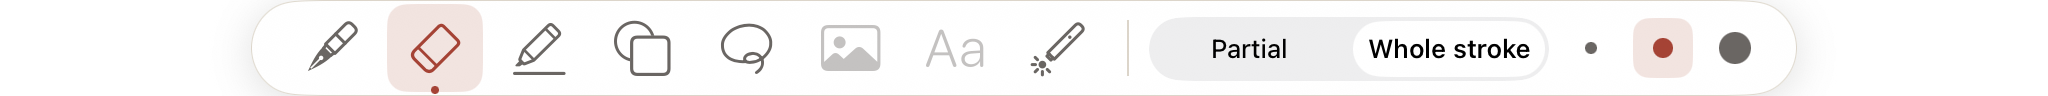
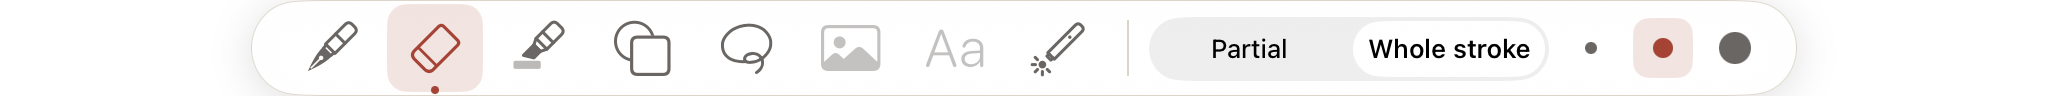
feat(EmberPad): draw the highlighter as a chisel-tip marker, not a pencil (EP106) (#96)
The highlighter showed SF Symbols' `highlighter`, a pencil over a line, so next to
EP105's fountain pen it read as another pen. It is now an original template vector
in the asset catalog (ToolHighlighter): a wide marker with a cap joint, a collar and
a solid chisel tip cut on the slant, laying a translucent swath beneath it. It uses
the fountain pen's 45 degree turn, 6-unit stroke and 0.88 scale, so it sits in the
set selected and unselected, light and dark.

ToolIconTests maps the highlighter to the new asset, fails if it ever shows a
pencil-like symbol again, and checks the drawing differs from the old symbol and
carries a translucent swath. Before and after captures are in docs/screenshots/ep106.

Changed region(s): [[0.25, 0.2188, 0.2812, 0.7188], [0.25, 0.75, 0.2812, 0.7812]]

diff --git a/Apps/EmberPadTests/ToolIconTests.swift b/Apps/EmberPadTests/ToolIconTests.swift
@@ -4,7 +4,8 @@ import XCTest
 @testable import EmberPad
 
 /// EP105: every tool shows a picture of itself on the palette and in its toasts. The fountain pen is EmberPad's own
-/// nib drawing, never a marker-like SF Symbol such as `pencil.tip`, which it showed before.
+/// nib drawing, never a marker-like SF Symbol such as `pencil.tip`, which it showed before. EP106: the highlighter is
+/// EmberPad's own chisel-tip marker, no longer SF Symbols' pencil-over-a-line `highlighter`.
 @MainActor
 final class ToolIconTests: XCTestCase {
     private var suiteName = ""
@@ -26,7 +27,7 @@ final class ToolIconTests: XCTestCase {
         let expected: [WorksheetTool: ToolIcon] = [
             .pen: .asset("ToolFountainPen"),
             .eraser: .system("eraser"),
-            .highlighter: .system("highlighter"),
+            .highlighter: .asset("ToolHighlighter"),
             .shape: .system("square.on.circle"),
             .lasso: .system("lasso"),
             .laser: .asset("ToolLaserPointer"),
@@ -47,6 +48,18 @@ final class ToolIconTests: XCTestCase {
             XCTAssertFalse(notAFountainPen.contains(symbol), "the fountain pen shows \(symbol), a marker or pencil")
         }
         XCTAssertEqual(WorksheetTool.pen.icon, .asset("ToolFountainPen"), "EmberPad's own fountain pen nib")
+    }
+
+    func testTheHighlighterIsAChiselTipMarkerNotAPencil() {
+        // SF Symbols that draw a pencil or pen rather than a chisel-tip highlighter, including the `highlighter`
+        // symbol itself, which is a pencil over a line.
+        let notAHighlighter: Set<String> = [
+            "highlighter", "pencil", "pencil.line", "pencil.tip", "pencil.and.underline", "applepencil", "pencil.and.scribble",
+        ]
+        if case .system(let symbol) = WorksheetTool.highlighter.icon {
+            XCTAssertFalse(notAHighlighter.contains(symbol), "the highlighter shows \(symbol), a pencil")
+        }
+        XCTAssertEqual(WorksheetTool.highlighter.icon, .asset("ToolHighlighter"), "EmberPad's own chisel-tip marker")
     }
 
     func testEveryToolIconIsDistinct() {
@@ -83,6 +96,21 @@ final class ToolIconTests: XCTestCase {
         XCTAssertGreaterThan(differing, nibInk.count / 20, "the fountain pen does not look like pencil.tip")
     }
 
+    /// The highlighter's drawing has ink, differs from the pencil-over-a-line symbol it replaced, and its swath is
+    /// translucent, so it draws lighter pixels than the solid marker above it.
+    func testTheHighlighterDrawingDiffersFromTheOldPencilSymbol() throws {
+        let side: CGFloat = 56
+        let marker = try XCTUnwrap(UIImage(named: "ToolHighlighter", in: .main, with: nil))
+        let pencil = try XCTUnwrap(UIImage(systemName: "highlighter"))
+        let markerInk = inkMask(marker, side: side)
+        let pencilInk = inkMask(pencil, side: side)
+        XCTAssertGreaterThan(markerInk.filter { $0 }.count, 80, "the highlighter drawing has ink")
+        let differing = zip(markerInk, pencilInk).filter { $0 != $1 }.count
+        XCTAssertGreaterThan(differing, markerInk.count / 20, "the highlighter does not look like the pencil symbol")
+        let light = inkMask(marker, side: side, threshold: 700).filter { $0 }.count - markerInk.filter { $0 }.count
+        XCTAssertGreaterThan(light, 60, "a translucent swath lies under the tip")
+    }
+
     func testPencilSwitchBackToThePenToastsTheFountainPen() {
         let tools = ToolState(defaults: defaults)
         tools.select(.eraser)
@@ -92,8 +120,9 @@ final class ToolIconTests: XCTestCase {
 
     // MARK: - Helpers
 
-    /// Which pixels of the image, drawn black into a `side` square, carry ink.
-    private func inkMask(_ image: UIImage, side: CGFloat) -> [Bool] {
+    /// Which pixels of the image, drawn black into a `side` square, carry ink: their R+G+B is below `threshold` (out of
+    /// 765), so the default counts only dark ink and a higher threshold also counts translucent ink.
+    private func inkMask(_ image: UIImage, side: CGFloat, threshold: Int = 384) -> [Bool] {
         let format = UIGraphicsImageRendererFormat()
         format.scale = 1
         let rendered = UIGraphicsImageRenderer(size: CGSize(width: side, height: side), format: format).image { _ in
@@ -107,7 +136,7 @@ final class ToolIconTests: XCTestCase {
         for y in 0..<cg.height {
             for x in 0..<cg.width {
                 let offset = y * cg.bytesPerRow + x * perPixel
-                mask.append(Int(bytes[offset]) + Int(bytes[offset + 1]) + Int(bytes[offset + 2]) < 384)
+                mask.append(Int(bytes[offset]) + Int(bytes[offset + 1]) + Int(bytes[offset + 2]) < threshold)
             }
         }
         return mask

diff --git a/Apps/EmberPad/ToolState.swift b/Apps/EmberPad/ToolState.swift
@@ -21,12 +21,13 @@ enum WorksheetTool: String, CaseIterable, Codable, Sendable {
     }
 
     /// The tool's picture on the palette and in its toasts (EP105). SF Symbols where one shows the tool; the fountain
-    /// pen and laser pointer have none, so they are EmberPad's own vector drawings in the asset catalog.
+    /// pen and laser pointer have none, and SF Symbols' `highlighter` is a pencil over a line, so those three are
+    /// EmberPad's own vector drawings in the asset catalog (the highlighter's chisel-tip marker since EP106).
     var icon: ToolIcon {
         switch self {
         case .lasso: .system("lasso")
         case .pen: .asset("ToolFountainPen")
-        case .highlighter: .system("highlighter")
+        case .highlighter: .asset("ToolHighlighter")
         case .eraser: .system("eraser")
         case .laser: .asset("ToolLaserPointer")
         case .shape: .system("square.on.circle")

diff --git a/README.md b/README.md
@@ -218,7 +218,7 @@ Theme tokens are defined in `Apps/EmberPad/Theme.swift`; the app chrome uses lig
 
 The AppIcon (EP74: the Ember red star on navy, its bottom point a pen nib writing a cream stroke, with a bolder-nib rendition for 40 px and below) and `bg`-coloured iOS launch screen, plus the Companion's monochrome menu-bar glyph and window badge, are documented with their vector sources and raster exporters in the [iPad](Apps/EmberPad/Brand.Sources/README.md) and [Companion](Apps/Companion/Brand.Sources/README.md) source notes. The [home-screen icon screenshot](docs/screenshots/home-screen-icon.png) predates EP74 and still shows the earlier worksheet-and-pen icon.
 
-Tools come from the floating tool palette (`ToolbarStrip.swift`), which floats over the page at the top unless it has been moved (EP101, below), the same on 17.5 and 18; there is no `PKToolPicker` and no Tools menu. It is centred and follows GoodNotes' order: fountain pen, eraser, highlighter, shapes (EP64), lasso, greyed image and text (a tap on a greyed one shows a "coming later" toast), then the laser pointer | the active tool's controls. Each tool shows a picture of itself (EP105): the fountain pen is a pen with a split nib and the laser pointer a pointer casting a red spot, both EmberPad's own template vectors in the asset catalog (`ToolFountainPen`, `ToolLaserPointer`) drawn to match the light SF Symbols of the other tools (eraser, highlighter, shapes, lasso), and a Pencil switch's toast shows the same picture; see the [before and after](docs/screenshots/ep105/toolbar-before-after-light.png) ([dark](docs/screenshots/ep105/toolbar-before-after-dark.png)). The selected tool is Ember red on a soft red square. Pen and highlighter each show three widths as strokes of rising thickness, then their colour presets (three for the pen and GoodNotes' five for the highlighter by default, up to 12 through the system colour picker); the eraser switches Partial or Whole stroke, with the same three sizes for both (EP99). Tapping the selected tool again opens its settings popover: the pen's Tip sharpness slider, colour reorder and removal, the highlighter's straight-line switches, and the pen-gesture switches: Draw and hold (straight line), Circle to lasso and Scribble to erase. `ToolState` persists the current and previous tool, presets, widths, eraser mode and size, the pen's tip sharpness and pressure setting, and those switches in `UserDefaults` (`toolState.v1`, colours as hex), and sets the PencilKit tool on every page canvas. Apple Pencil double-tap and Pencil Pro squeeze follow the iPad's own setting: switch to eraser, switch to previous, or open the current tool's settings; ignore and system shortcut do nothing. Every switch shows a toast on the page for 1.3 s, below the top of the page and clear of the palette there (above the palette when it is at the bottom). Worksheet drawing is Pencil-only; fingers pan/zoom. Undo/redo buttons and multi-finger double-taps route to the active canvas. Validate the eraser modes, double-tap and touch/undo behavior on the actual iPad before relying on them. See the strip with the [pen](docs/screenshots/toolbar-strip-pen-light.png) ([dark](docs/screenshots/toolbar-strip-pen-dark.png)), [highlighter](docs/screenshots/toolbar-strip-highlighter-light.png), [eraser](docs/screenshots/toolbar-strip-eraser-light.png) and [lasso](docs/screenshots/toolbar-strip-lasso-light.png) selected, the pen settings popover ([light](docs/screenshots/tool-settings-pen-light.png), [dark](docs/screenshots/tool-settings-pen-dark.png)) the highlighter settings popover ([light](docs/screenshots/tool-settings-highlighter-light.png)) and the [Pencil toast](docs/screenshots/tool-toast-light.png).
+Tools come from the floating tool palette (`ToolbarStrip.swift`), which floats over the page at the top unless it has been moved (EP101, below), the same on 17.5 and 18; there is no `PKToolPicker` and no Tools menu. It is centred and follows GoodNotes' order: fountain pen, eraser, highlighter, shapes (EP64), lasso, greyed image and text (a tap on a greyed one shows a "coming later" toast), then the laser pointer | the active tool's controls. Each tool shows a picture of itself (EP105): the fountain pen is a pen with a split nib and the laser pointer a pointer casting a red spot, both EmberPad's own template vectors in the asset catalog (`ToolFountainPen`, `ToolLaserPointer`) drawn to match the light SF Symbols of the other tools (eraser, shapes, lasso), and a Pencil switch's toast shows the same picture; see the [before and after](docs/screenshots/ep105/toolbar-before-after-light.png) ([dark](docs/screenshots/ep105/toolbar-before-after-dark.png)). The highlighter is EmberPad's own too (EP106, `ToolHighlighter`): a wide marker with a chisel tip laying a translucent swath, in place of SF Symbols' `highlighter`, a pencil over a line that looked like another pen; see the [before and after](docs/screenshots/ep106/highlighter-closeup-before-after-light.png) ([dark](docs/screenshots/ep106/highlighter-closeup-before-after-dark.png)). The selected tool is Ember red on a soft red square. Pen and highlighter each show three widths as strokes of rising thickness, then their colour presets (three for the pen and GoodNotes' five for the highlighter by default, up to 12 through the system colour picker); the eraser switches Partial or Whole stroke, with the same three sizes for both (EP99). Tapping the selected tool again opens its settings popover: the pen's Tip sharpness slider, colour reorder and removal, the highlighter's straight-line switches, and the pen-gesture switches: Draw and hold (straight line), Circle to lasso and Scribble to erase. `ToolState` persists the current and previous tool, presets, widths, eraser mode and size, the pen's tip sharpness and pressure setting, and those switches in `UserDefaults` (`toolState.v1`, colours as hex), and sets the PencilKit tool on every page canvas. Apple Pencil double-tap and Pencil Pro squeeze follow the iPad's own setting: switch to eraser, switch to previous, or open the current tool's settings; ignore and system shortcut do nothing. Every switch shows a toast on the page for 1.3 s, below the top of the page and clear of the palette there (above the palette when it is at the bottom). Worksheet drawing is Pencil-only; fingers pan/zoom. Undo/redo buttons and multi-finger double-taps route to the active canvas. Validate the eraser modes, double-tap and touch/undo behavior on the actual iPad before relying on them. See the strip with the [pen](docs/screenshots/toolbar-strip-pen-light.png) ([dark](docs/screenshots/toolbar-strip-pen-dark.png)), [highlighter](docs/screenshots/toolbar-strip-highlighter-light.png), [eraser](docs/screenshots/toolbar-strip-eraser-light.png) and [lasso](docs/screenshots/toolbar-strip-lasso-light.png) selected, the pen settings popover ([light](docs/screenshots/tool-settings-pen-light.png), [dark](docs/screenshots/tool-settings-pen-dark.png)) the highlighter settings popover ([light](docs/screenshots/tool-settings-highlighter-light.png)) and the [Pencil toast](docs/screenshots/tool-toast-light.png).
 
 **Moving the tool palette** (EP100, made floating in EP101, carried with no hold in EP102, carried freely in EP104). GoodNotes 6's Writing Tools menu floats over the page: its support article says to drag the floating menu to a screen edge, where it snaps to the top, bottom, left or right and turns upright on the sides. Ember Slate's tool palette works the same way. It is a rounded capsule as long as its tools, floating 10 pt in from an edge of the worksheet below the header, and the page no longer makes room for it: the page runs under it, as in GoodNotes. As in GoodNotes 6 there is no hold (EP102): touch the palette with a finger (on a tool or between them) and drag, and the palette itself moves with the finger once it has travelled 6 pt (less is a tap's drift), raised a little, with the tool the finger landed on staying under the finger the whole way; that tool is not chosen. A finger held still on it for 0.3 s picks it up too. While it is carried it keeps its shape and goes wherever the finger takes it, and nothing shows where it will land (EP104): no band or outline along an edge and no tick as it nears one; the finger picks it up and lets it go, and only then is its place chosen. Let go and it snaps with a short spring (a 0.2 s ease with Reduce Motion) to the edge nearest the finger, or to where a flick was heading (a finger that held it still before letting go never flicks it on, EP104), and along that edge it lands where it was carried to (straight in to the edge when it stays flat or upright, centred on the finger when it turns), kept whole on the screen. Across the top (the default, centred) or the bottom it lies flat; down the left or right it is a 56 pt column with the same tools in the same order, then the active tool's widths and colours stacked, the eraser's Partial and Whole as two buttons, and no lasso or laser hint (they need a row's width). When its tools are longer than the edge it scrolls. The Teacher copy panel slides over the palette like Slide Over, and on the pull tab's side the palette keeps clear of the tab, so the tab and the edge swipe (EP97) still work. The page pill moves up above a palette at the bottom. The edge and the place along it are kept with the other tool settings (`toolbarDock` and `toolbarAlong`, 0 to 1, in `toolState.v1`; settings stored before EP100 read as the top and before EP101 as centred), so every worksheet and the next launch open with the palette where it was left. Only a finger moves it: Apple Pencil never does, so a Pencil tap on the palette still picks a tool and Pencil writing on the page carries on while a finger moves it. A touch that lifts before it moves is a tap. When the palette is too long for its edge and scrolls, a drag along it scrolls it, and a drag across it (or after a hold) carries it. Every tool, its controls and its settings popover work on every edge, and a popover opens over the page beside the palette. Read-only hides the palette on every edge. VoiceOver offers Move tools to the top, bottom, left and right on the palette. Why EP100's row never moved on the iPad (EP101): a hold on a tool landed on a SwiftUI button, whose own touch recogniser began at once and, because a long press can be prevented by default, UIKit failed the hold within a millisecond, long before 0.3 s. The palette's recogniser now cannot be prevented, and when it begins it cancels the button's touch so the held tool is not tapped. The unit test could not catch this because it fed the drag's phases to the editor directly; `EmberPadUITests/ToolbarFingerDragUITests.swift` now drives real touches through UIKit (XCUITest press and drag, launched with the debug-only `-EmberPadUITestWorksheet` argument, which seeds a synthetic worksheet): it holds a tool and drags the palette to every edge, checks taps still pick tools, and reopens the worksheet to find the palette where it was left. It fails on the EP100 build and passes now. Why EP101's drag felt laggy and stepped (EP102): it was a 0.3 s long press, so nothing moved until the hold ended; it then hid the palette and drew a smaller raised copy centred on the finger, so the tool the finger held jumped away from under it; the copy flipped between a row and a column as the target edge changed, inside a spring animation; and every move rewrote state on the whole editor screen. Now the palette itself is moved by a render-only offset that only the palette reads, from a recogniser that begins after a few points of travel. `EmberPadUITests/ToolbarDragTrackingUITests.swift` measures it with real touches through the debug-only `ToolbarDragProbe`, which on every display frame compares where the held point of the palette is drawn with the finger. In the Simulator, a held drag on the EP101 build drew the held tool up to 129 pt from the finger (median 115 pt) and dropped frames (50 ms gaps), and a drag with no hold never moved it; now a drag with no hold picks it up within two frames, it is drawn a median 7 pt from the finger at 400 pt/s, which is exactly the one frame any drawing takes to show the finger's latest move, and never more than that one frame behind, with no dropped frames. `EmberPadUITests/ToolbarFreeDragUITests.swift` (EP104) carries it with real touches to the bottom and to the right side, and lets it go mid-page, near the left, and across from the left side to the right (where, held still before the lift, it lands as far down the side as it was carried, not flicked on by its last move), with the probe also comparing the window during the carry against the window at touch-down everywhere but round the palette: on the EP102 build the target edge's band changed about 4,500 square points of it and the tests fail; now nothing does. Let go mid-page, it flies to the nearest edge over about 20 frames, the largest step about 50 pt of a 370 pt flight, at rest in about half a second, where it was carried to along that edge. See the Simulator captures (synthetic worksheet): the [palette at the top](docs/screenshots/ep100/top.png), [carried over the right edge](docs/screenshots/ep100/lifted.png), floating on the [right](docs/screenshots/ep100/right.png), [bottom](docs/screenshots/ep100/bottom.png) and [left](docs/screenshots/ep100/left.png), the [eraser down the left](docs/screenshots/ep100/left-eraser.png), and the pen's settings from the [right](docs/screenshots/ep100/right-pen-settings.png), [bottom](docs/screenshots/ep100/bottom-pen-settings.png) and [left](docs/screenshots/ep100/left-pen-settings.png). The feel of the drag and the snap still need the device check.
 
